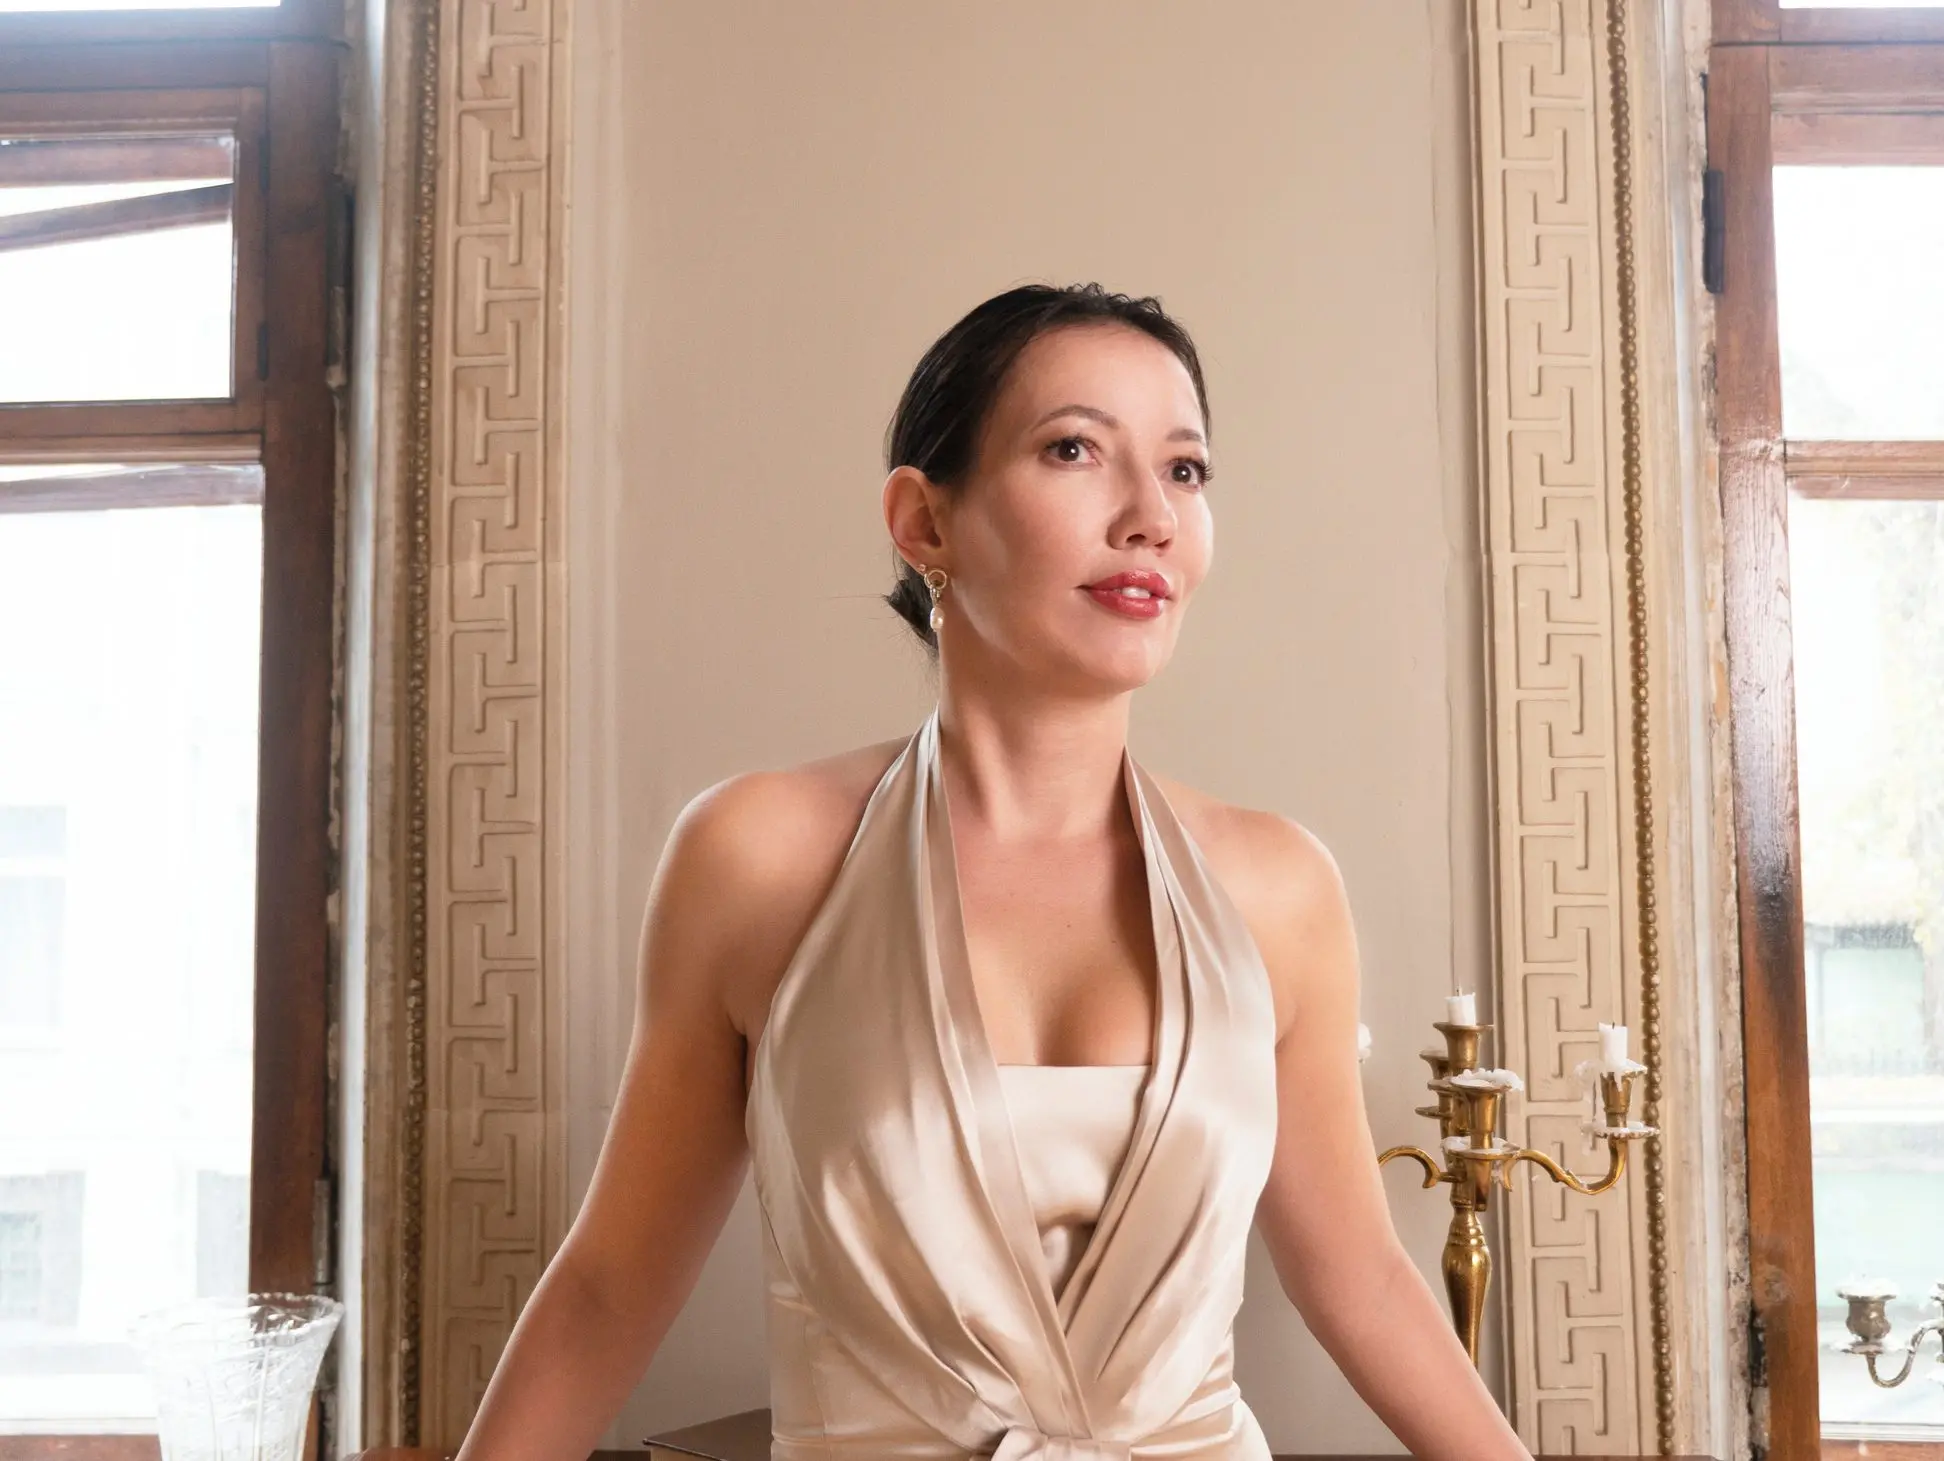
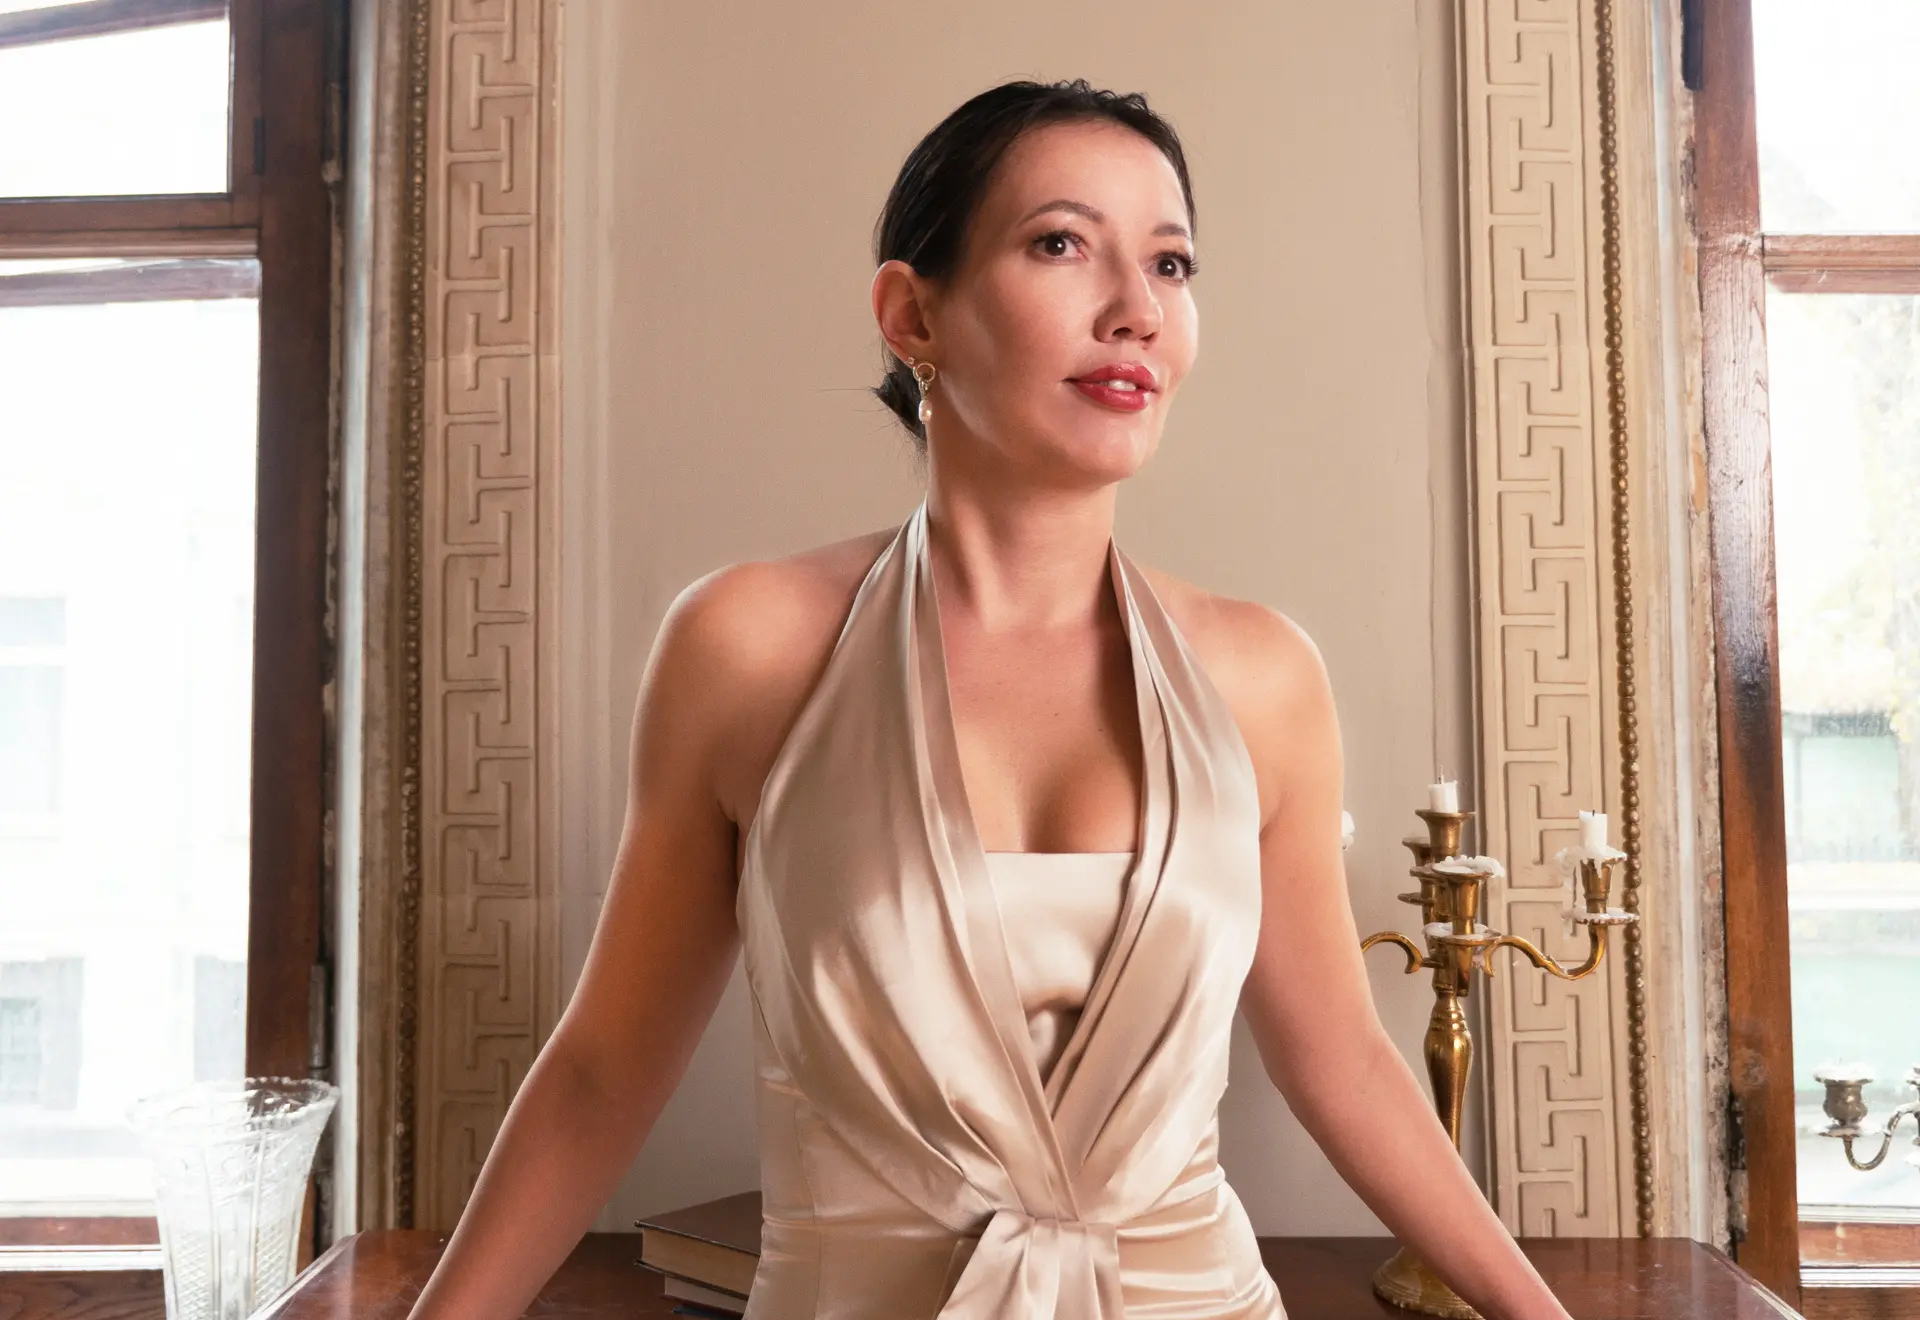
change benefit image

diff --git a/src/scss/sections/benefit/hero/ben-hero.scss b/src/scss/sections/benefit/hero/ben-hero.scss
@@ -5,7 +5,7 @@
 	}
 
 	.hero-img {
-		object-position: 100% 38%;
+		object-position: top;
 	}
 
 	.hero-block {
